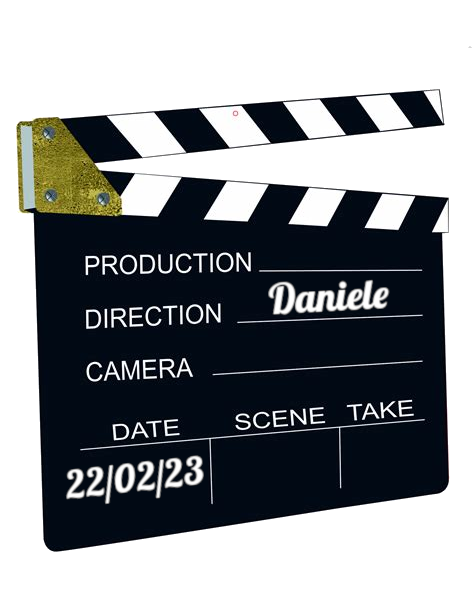
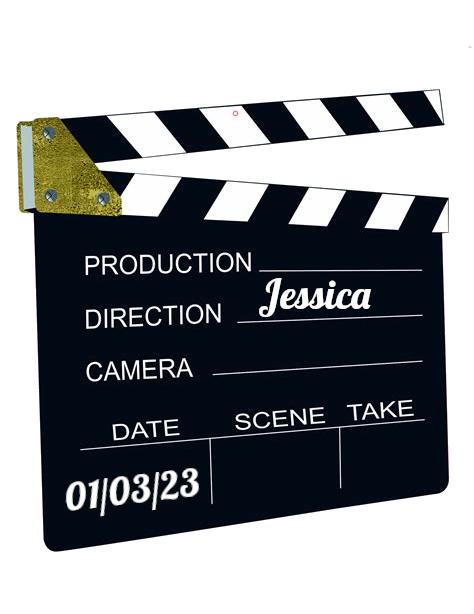
Fantasia 2

Changed region(s): [[0.1181, 0.7427, 0.443, 0.8355], [0.5316, 0.4332, 0.827, 0.5261]]

diff --git a/index.html b/index.html
@@ -38,12 +38,12 @@
 
 <br /><br />
 
-<h1>Mercoled&igrave; 22 febbraio 2023</h1>
+<h1>Mercoled&igrave; 1 marzo 2023</h1>
 <h2>Alle 20:30 in Via Nizza, 72</h2>
 
 <img src="img/ciak.png" class="locandina"/>
 
-<h2>Tema: <i>Fantasia</i> - Selezionatore: <i>Daniele</i></h2>
+<h2>Tema: <i>Fantasia</i> - Selezionatrice: <i>Jessica</i></h2>
 
 
 <br /><br />
@@ -56,14 +56,14 @@
 
 <br /><br />
 
-<h2>Mercoled&igrave; 15 febbraio 2023</h2>
+<h2>Mercoled&igrave; 22 febbraio 2023</h2>
 <p class="mtitle">
-<a href="" target="_blank">Il racconto dei racconti</a>
+<a href="https://www.imdb.com/title/tt6256546" target="_blank">Ricordi?</a>
 </p>
 
-<img src="https://image.tmdb.org/t/p/w500/fYf4Ni3pFDaRme4e9YsluHZE9ki.jpg" class="locandina"/>
+<img src="https://image.tmdb.org/t/p/w500/evQ1bmZSS8cNoyK6lyIKIm4J8KC.jpg" class="locandina"/>
 
-<h2>Tema: <i>Fantasia</i> - Selezionatrice: <i>Adriana</i></h2>
+<h2>Tema: <i>Fantasia</i> - Selezionatore: <i>Daniele</i></h2>
 
 <br /><br />
 

diff --git a/movieslist.html b/movieslist.html
@@ -29,6 +29,17 @@ Rassegnamoci, Cineforum a Programma Variabile - Elenco Film
   </thead>
   <tbody>
     <tr>
+      <td>22-Feb-2023</td>
+      <td>Ricordi?</td>
+      <td>Daniele</td>
+      <td>Fantasia</td>
+      <td>2018</td>
+      <td>Valerio Mieli</td>
+      <td>106</td>
+      <td>FR; IT</td>
+      <td><a href="https://www.imdb.com/title/tt6256546" target="_blank">https://www.imdb.com/title/tt6256546</a></td>
+    </tr>
+    <tr>
       <td>15-Feb-2023</td>
       <td>Il racconto dei racconti - Tale of Tales</td>
       <td>Adriana</td>
